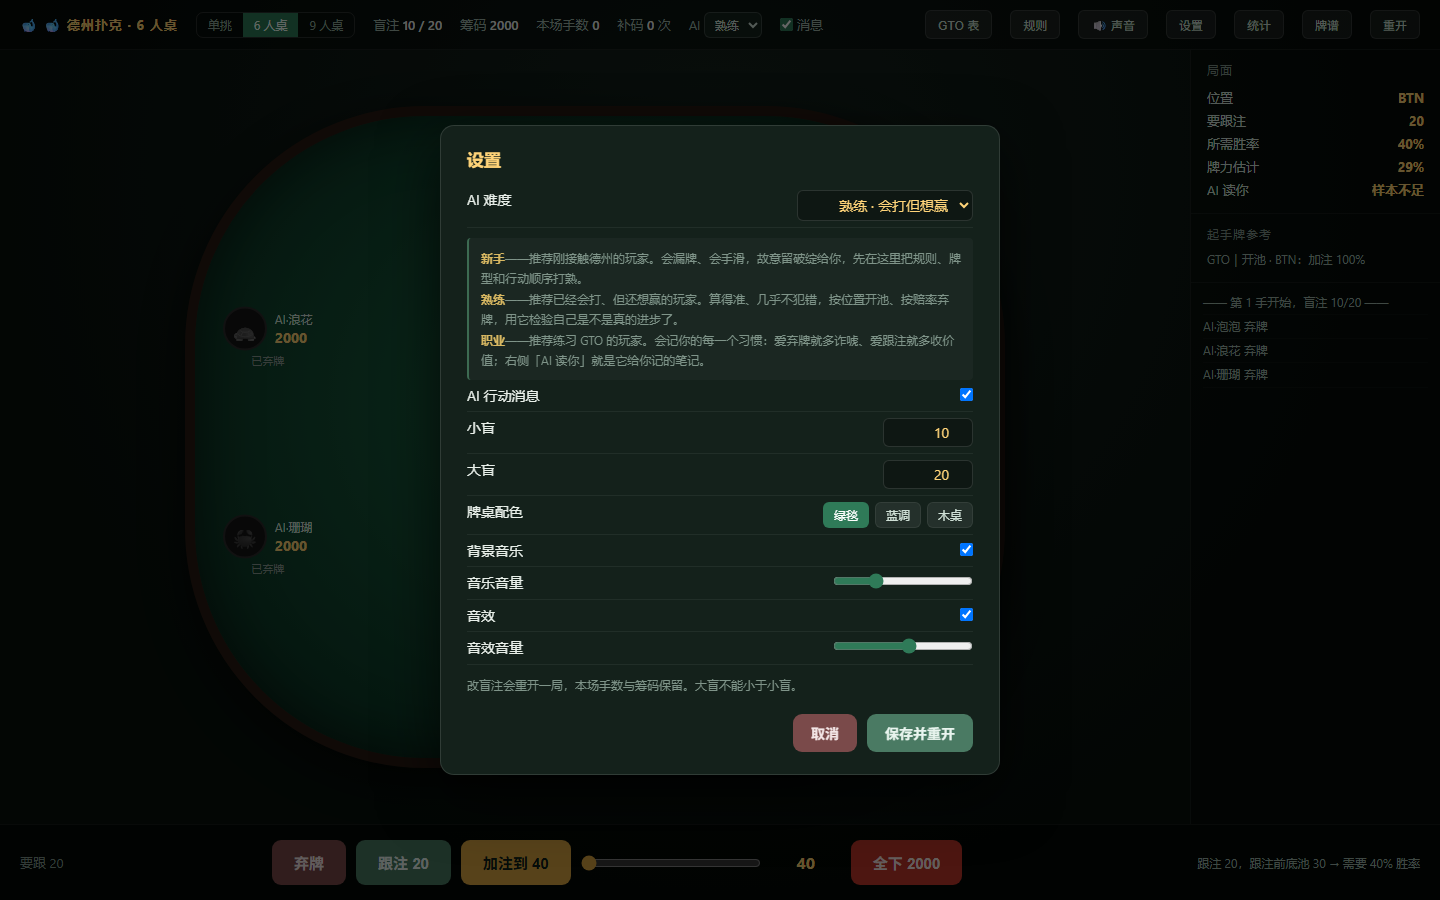
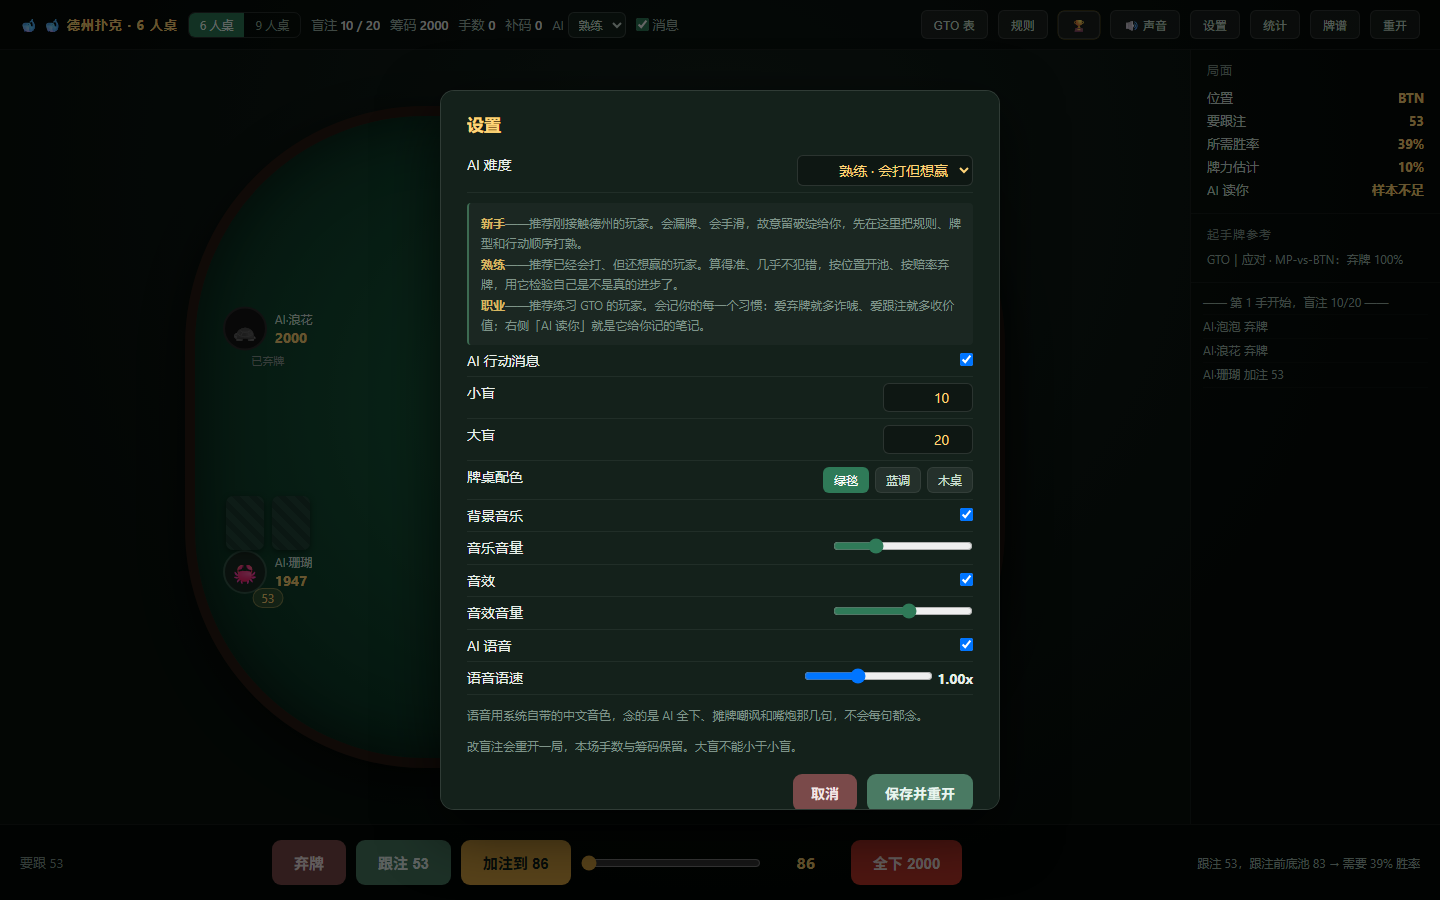
feat: 刺激感五条 + AI 语音（合成音，零音频文件）

diff --git a/index.html b/index.html
@@ -580,6 +580,44 @@
   .guide-tip .btn-mini, .guide-bar .btn-mini { white-space: nowrap; }
 
   /* 大赢庆祝 */
+  @keyframes btnPulse {
+    0%, 100% { box-shadow: 0 0 0 0 rgba(212, 175, 55, .55); }
+    55% { box-shadow: 0 0 0 7px rgba(212, 175, 55, 0); }
+  }
+  #btnChallenge.pulse { animation: btnPulse 2.4s ease-in-out infinite; color: var(--gold); }
+
+  .streak-pop {
+    position: fixed; left: 50%; top: 17%; transform: translateX(-50%);
+    padding: 8px 18px; border-radius: 999px; font-size: 15px; font-weight: 700;
+    z-index: 88; pointer-events: none; animation: streakPop 2.4s ease-out forwards;
+    white-space: nowrap;
+  }
+  .streak-pop.good { background: rgba(212, 175, 55, .18); border: 1px solid var(--gold); color: var(--gold); }
+  .streak-pop.bad { background: rgba(200, 60, 60, .15); border: 1px solid var(--lose); color: #ff9a9a; }
+  @keyframes streakPop {
+    0% { opacity: 0; transform: translate(-50%, 10px) scale(.92); }
+    12% { opacity: 1; transform: translate(-50%, 0) scale(1); }
+    82% { opacity: 1; }
+    100% { opacity: 0; transform: translate(-50%, -12px); }
+  }
+
+  .badbeat-flash {
+    position: fixed; inset: 0; pointer-events: none; z-index: 90;
+    background: radial-gradient(circle at 50% 42%, rgba(200, 36, 36, .38), rgba(120, 12, 12, .10) 55%, transparent 72%);
+    animation: bbFlash .95s ease-out forwards;
+  }
+  @keyframes bbFlash {
+    0% { opacity: 0; }
+    12% { opacity: 1; }
+    100% { opacity: 0; }
+  }
+  .badbeat-note {
+    margin-top: 10px; padding: 9px 12px; border-radius: 8px;
+    background: rgba(200, 36, 36, .12); border: 1px solid rgba(220, 80, 80, .45);
+    color: #ffb4b4; font-size: 13px; line-height: 1.5;
+  }
+  .badbeat-note b { color: #ff8f8f; }
+
   .big-win {
     position: fixed; left: 50%; top: 42%; transform: translate(-50%, -50%);
     font-size: 64px; font-weight: 900; color: var(--gold);
@@ -1908,7 +1946,28 @@ window.GTO_TABLE = {
       });
       // 亮牌
       alive.forEach(function (p) { p.holeRevealed = true; });
-      g.result = { winners: results, pot: totalBefore, showdown: true, handNames: handNames };
+
+      // 恶意逆转（bad beat）：玩家在转牌结束时领先所有人，河牌被反超
+      var badBeat = null;
+      var meP = g.players[0];
+      if (g.board.length === 5 && meP && !meP.folded && alive.length >= 2) {
+        var iWonAnyway = results.some(function (r) { return r.playerId === 0; });
+        if (!iWonAnyway) {
+          var b4 = g.board.slice(0, 4);
+          var myV = eval7(meP.hole.concat(b4));
+          var stillAhead = true;
+          alive.forEach(function (p) {
+            if (p.id === 0) return;
+            if (cmpVal(eval7(p.hole.concat(b4)), myV) > 0) stillAhead = false;
+          });
+          if (stillAhead) {
+            var whoBeat = results.filter(function (r) { return r.playerId !== 0; });
+            badBeat = { byPlayerId: whoBeat.length ? whoBeat[0].playerId : -1 };
+          }
+        }
+      }
+
+      g.result = { winners: results, pot: totalBefore, showdown: true, handNames: handNames, badBeat: badBeat };
     }
 
     g.pot = 0;
@@ -2092,6 +2151,13 @@ window.GTO_TABLE = {
           tone(midi(n), t + i * 0.10, 0.45, 'sine', 0.085, sfxBus);
         });
       },
+      badbeat: function () {
+        var c = ensure(); if (!c || !S.sfxOn) return;
+        var t = c.currentTime;
+        tone(midi(45), t, 0.75, 'sawtooth', 0.11, sfxBus);
+        tone(midi(38), t + 0.16, 0.9, 'sine', 0.10, sfxBus);
+        noise(t + 0.02, 0.35, 0.09, sfxBus, 500);
+      },
       turn: function () {
         var c = ensure(); if (!c || !S.sfxOn) return;
         var t = c.currentTime;
@@ -2157,6 +2223,50 @@ window.GTO_TABLE = {
     };
   })();
 
+  // ---------------- 语音（浏览器自带 TTS，零音频文件） ----------------
+  var Voice = (function () {
+    var V = { on: true, rate: 1.0, ready: false };
+    function load() {
+      var v = LS.get('poker.voice.v1', null);
+      if (v) { V.on = v.on !== false; V.rate = typeof v.rate === 'number' ? v.rate : 1.0; }
+      if ('speechSynthesis' in window) {
+        try { window.speechSynthesis.getVoices(); } catch (e) {}
+        V.ready = true;
+      }
+      return V;
+    }
+    function save() { LS.set('poker.voice.v1', { on: V.on, rate: V.rate }); }
+    function zhVoice() {
+      if (!V.ready) return null;
+      var vs = [];
+      try { vs = window.speechSynthesis.getVoices() || []; } catch (e) { return null; }
+      for (var i = 0; i < vs.length; i++) if (/^zh/i.test(vs[i].lang || '')) return vs[i];
+      return null;
+    }
+    function say(text, pitch) {
+      if (!V.on || !V.ready || !text) return;
+      try {
+        window.speechSynthesis.cancel();
+        var u = new SpeechSynthesisUtterance(String(text).replace(/^[^一-龥A-Za-z0-9]+/, ''));
+        var v = zhVoice();
+        if (v) u.voice = v;
+        u.lang = v ? v.lang : 'zh-CN';
+        u.rate = V.rate;
+        u.pitch = pitch || 1;
+        u.volume = 0.9;
+        window.speechSynthesis.speak(u);
+      } catch (e) {}
+    }
+    return {
+      init: load, save: save, say: say,
+      isOn: function () { return V.on; },
+      setOn: function (x) { V.on = !!x; save(); },
+      getRate: function () { return V.rate; },
+      setRate: function (x) { V.rate = Math.max(0.6, Math.min(1.6, Number(x) || 1)); save(); },
+      supported: function () { return ('speechSynthesis' in window) && !!zhVoice; }
+    };
+  })();
+
 
   // ---------------- 本地存储 ----------------
   var LS = {
@@ -2168,6 +2278,9 @@ window.GTO_TABLE = {
       try { localStorage.setItem(k, JSON.stringify(v)); } catch (e) { /* 配额满了就算了 */ }
     }
   };
+
+  // 语音初始化放在 LS 之后（load() 要读存储）
+  try { Voice.init(); } catch (e) {}
 
   function loadSettings() {
     var s = LS.get('poker.save.v2', null);
@@ -2228,6 +2341,7 @@ window.GTO_TABLE = {
   }
 
   function newGame() {
+    streak.win = 0; streak.lose = 0;
     var s = loadSettings();
     applyTheme(s.theme);
     var tm = String(location.search || '').match(/[?&]theme=(green|blue|wood)/);
@@ -2812,7 +2926,7 @@ window.GTO_TABLE = {
   function pickOne(arr) { return arr[Math.floor(Math.random() * arr.length)]; }
 
   // 说一句：占预算、延迟播放、写进本手 messages（牌谱可回看）
-  function say(seat, text, delay) {
+  function say(seat, text, delay, speak) {
     if (!aiTalkingEnabled() || !seat || seat === 0) return;
     if (_talkBudget <= 0) return;
     _talkBudget -= 1;
@@ -2820,6 +2934,7 @@ window.GTO_TABLE = {
     var d = delay || 0;
     setTimeout(function () {
       if (!game) return;
+      if (speak) { try { Voice.say(text, 0.92 + (seat % 4) * 0.06); } catch (e) {} }
       messages.push({
         id: 'msg-' + (messages.length + 1) + '-t',
         speakerId: seat,
@@ -2846,7 +2961,7 @@ window.GTO_TABLE = {
       return p.id !== 0 && p.id !== actorSeat && !p.folded;
     });
     if (!others.length) return;
-    say(pickOne(others).id, pickOne(REPLY[key]), 1200);
+    say(pickOne(others).id, pickOne(REPLY[key]), 1200, key === 'allin');
   }
 
   // 连续 3 手没人说话，25% 概率两个 AI 一来一回
@@ -2875,10 +2990,10 @@ window.GTO_TABLE = {
     var who = pickOne(others);
     var bb = (game.bigBlind || 20);
     if (meWin && (result.pot || 0) >= bb * 25) {
-      say(who.id, pickOne(SHOWDOWN_LINES), 900);
+      say(who.id, pickOne(SHOWDOWN_LINES), 900, true);
     } else if (!meWin && Math.random() < 0.25) {
       var aw = winners.filter(function (w) { return w.playerId !== 0; });
-      if (aw.length) say(aw[0].playerId, '这手归我了', 900);
+      if (aw.length) say(aw[0].playerId, '这手归我了', 900, true);
     }
   }
 
@@ -3838,6 +3953,7 @@ window.GTO_TABLE = {
     if (text === _lastCheatTalk) return;
     _lastCheatTalk = text;
     showBubble(seat, text);
+    try { Voice.say(text, 0.86); } catch (e) {}
   }
 
   var _turnSoundAt = -1;
@@ -3874,7 +3990,16 @@ window.GTO_TABLE = {
 
   // 思考时长：真人不是每次都匀速。底池大、牌力边缘会多想一会儿，明显弃牌秒弃。
   function thinkDelay(g, seat) {
-    var base = 340 + Math.random() * 300;
+    var p = g.players[seat];
+    var toCall = Math.max(0, (g.streetCurrentBet || 0) - (p ? p.streetBet : 0));
+    // 免费过牌、没什么可想的：快速过
+    if (toCall <= 0) return Math.round(170 + Math.random() * 150);
+    var base = 320 + Math.random() * 280;
+    // 面对大注 / 全下：长考
+    var stack = p ? (p.chips + (p.streetBet || 0)) : 0;
+    if (stack > 0 && toCall >= stack * 0.45) base += 400 + Math.random() * 520;
+    // 河牌最后一个决定：再慢一点
+    if (g.board && g.board.length === 5) base += 110 + Math.random() * 230;
     var potBB = (g.pot || 0) / (g.bigBlind || 20);
     if (potBB > 30) base += 320 + Math.random() * 520;
     else if (potBB > 12) base += 130 + Math.random() * 260;
@@ -3895,6 +4020,7 @@ window.GTO_TABLE = {
     saveHand();
     saveSettings({ chips: game.players[0].chips, hands: game.handsPlayed, rebuys: game.rebuys });
     try { updateProfile(); } catch (e) {}
+    try { checkStreak(); } catch (e) {}
     checkChallenge();
     showResult();
   }
@@ -4208,6 +4334,44 @@ window.GTO_TABLE = {
     setTimeout(function () { document.body.classList.remove('shake'); }, 420);
   }
 
+  var BADBEAT_LINES = ['河牌救了我', '这就是德州，兄弟', '运气也是实力的一部分', '别急，下把还你'];
+
+  var streak = { win: 0, lose: 0 };
+
+  function showStreak(text, good) {
+    var el = document.createElement('div');
+    el.className = 'streak-pop ' + (good ? 'good' : 'bad');
+    el.textContent = text;
+    document.body.appendChild(el);
+    setTimeout(function () { if (el.parentNode) el.parentNode.removeChild(el); }, 2500);
+  }
+
+  function checkStreak() {
+    var me = game.players[0];
+    var won = 0;
+    if (game.result && game.result.winners) {
+      game.result.winners.forEach(function (w) { if (w.playerId === 0) won += w.amount; });
+    }
+    var net = won - (me.totalBet || 0);
+    if (net > 0) { streak.win++; streak.lose = 0; }
+    else if (net < 0) { streak.lose++; streak.win = 0; }
+    else { streak.win = 0; streak.lose = 0; return; }
+    if (streak.win === 2) showStreak('连赢 2 把', true);
+    else if (streak.win === 3) showStreak('连赢 3 把，手风正顺', true);
+    else if (streak.win >= 5) showStreak('连赢 ' + streak.win + ' 把', true);
+    else if (streak.lose === 3) showStreak('连输 3 把，稳住别上头', false);
+    else if (streak.lose === 5) showStreak('连输 5 把，要不要换个桌型？', false);
+    else if (streak.lose >= 8) showStreak('连输 ' + streak.lose + ' 把了', false);
+  }
+
+  function showBadBeat() {
+    Sound.play('badbeat');
+    var el = document.createElement('div');
+    el.className = 'badbeat-flash';
+    document.body.appendChild(el);
+    setTimeout(function () { if (el.parentNode) el.parentNode.removeChild(el); }, 1000);
+  }
+
   function showResult() {
     maybeShowdownTalk(game.result);
     var me = game.players[0];
@@ -4215,7 +4379,7 @@ window.GTO_TABLE = {
     var won = 0;
     if (r && r.winners) r.winners.forEach(function (w) { if (w.playerId === 0) won += w.amount; });
     if (won > 0) { Sound.play('win'); celebrateBigWin(won); }
-    else if (!me.folded) Sound.play('lose');
+    else if (!me.folded) { Sound.play('lose'); if (r && r.badBeat) showBadBeat(); }
     var html = '<h3>本手结算</h3>';
     html += '<div class="row"><span>公共牌</span><span>' +
       (game.board.length ? game.board.map(E.cardStr).join(' ') : '（未发）') + '</span></div>';
@@ -4234,6 +4398,11 @@ window.GTO_TABLE = {
         html += '<div class="row"><span>' + nm + '</span><span class="win">+' + w.amount + '（' + (w.reason || '') + '）</span></div>';
       });
     }
+    if (r && r.badBeat) {
+      var bnm = (game.players[r.badBeat.byPlayerId] || {}).name || '对手';
+      html += '<div class="badbeat-note">河牌逆转：你在转牌时还领先 <b>' + bnm +
+        '</b>，被他最后一张反超。这种输法不算你打错，别上头。</div>';
+    }
     html += '<div class="row"><span>你的筹码</span><span>' + me.chips + '</span></div>';
 
     // 复盘讲评
@@ -4251,6 +4420,9 @@ window.GTO_TABLE = {
       html += '<div class="note">这一手你没有做决策（直接弃牌或没轮到）。</div>';
     }
 
+    if (!challenge || !challenge.active) {
+      html += '<div class="note" style="margin-top:10px">想要一个明确的目标？点顶栏 <b>🏆</b> 开挑战模式：限定手数内打到目标筹码，破产就清零重来。</div>';
+    }
     if (challenge && challenge.result) {
       html += challengeResultHtml();
     } else {
@@ -4973,6 +5145,15 @@ window.GTO_TABLE = {
       '<input type="checkbox" id="setSfx"' + (au.sfxOn ? ' checked' : '') + '></span></div>';
     html += '<div class="row"><span>音效音量</span><span>' +
       '<input type="range" id="setSfxVol" min="0" max="100" value="' + Math.round(au.sfxVol * 100) + '"></span></div>';
+    if (Voice.supported()) {
+      html += '<div class="row"><span>AI 语音</span><span>' +
+        '<input type="checkbox" id="setVoice"' + (Voice.isOn() ? ' checked' : '') + '></span></div>';
+      html += '<div class="row"><span>语音语速</span><span>' +
+        '<input type="range" id="setVoiceRate" min="0.6" max="1.6" step="0.05" value="' + Voice.getRate() + '"> <b id="setVoiceRateVal">' + Voice.getRate().toFixed(2) + 'x</b></span></div>';
+      html += '<div class="note">语音用系统自带的中文音色，念的是 AI 全下、摊牌嘲讽和嘴炮那几句，不会每句都念。</div>';
+    } else {
+      html += '<div class="note">这个浏览器没有语音合成，AI 语音不可用（不影响其它功能）。</div>';
+    }
     html += '<div class="note">改盲注会重开一局，本场手数与筹码保留。大盲不能小于小盲。</div>';
     html += '<div class="actions">' +
       '<button class="btn fold" id="btnCancelSet">取消</button>' +
@@ -4991,6 +5172,11 @@ window.GTO_TABLE = {
     });
     $('setMusic').onchange = function () { Sound.setMusic(this.checked); };
     $('setMusicVol').oninput = function () { Sound.setMusicVol(this.value / 100); };
+    if ($('setVoice')) $('setVoice').onchange = function () { Voice.setOn(this.checked); };
+    if ($('setVoiceRate')) $('setVoiceRate').oninput = function () {
+      Voice.setRate(this.value);
+      $('setVoiceRateVal').textContent = Voice.getRate().toFixed(2) + 'x';
+    };
     $('setSfx').onchange = function () { Sound.setSfx(this.checked); };
     $('setSfxVol').oninput = function () { Sound.setSfxVol(this.value / 100); };
     $('btnCancelSet').onclick = closeModal;
@@ -5074,11 +5260,14 @@ window.GTO_TABLE = {
   function renderChallengeStatus() {
     var el = $('chStatus');
     if (!el) return;
+    var btn = $('btnChallenge');
     if (challenge && challenge.active) {
       el.style.display = '';
       el.innerHTML = '<b>' + challengeStatusText() + '</b>';
+      if (btn) btn.classList.remove('pulse');
     } else {
       el.style.display = 'none';
+      if (btn) btn.classList.add('pulse');
     }
   }
 
